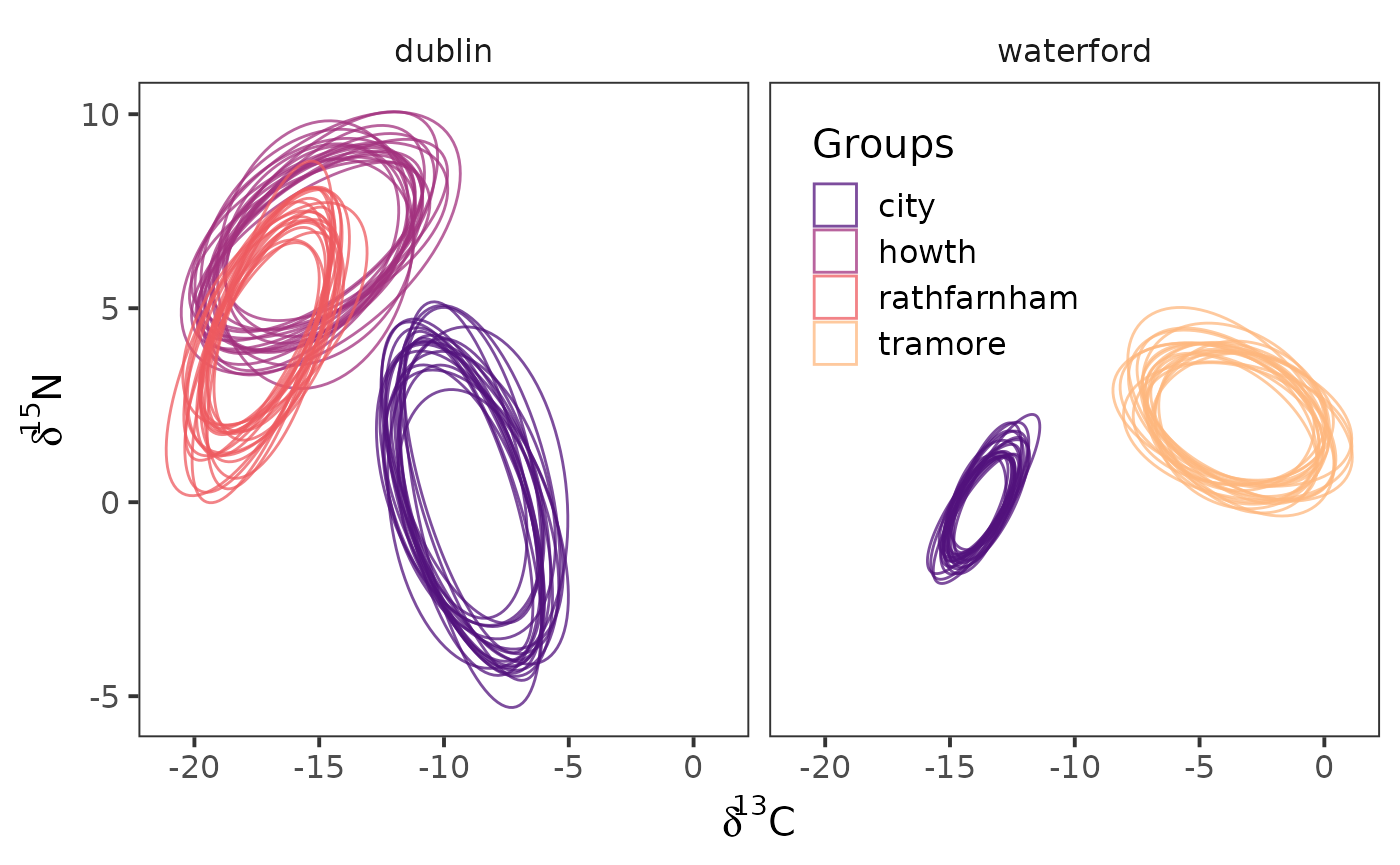
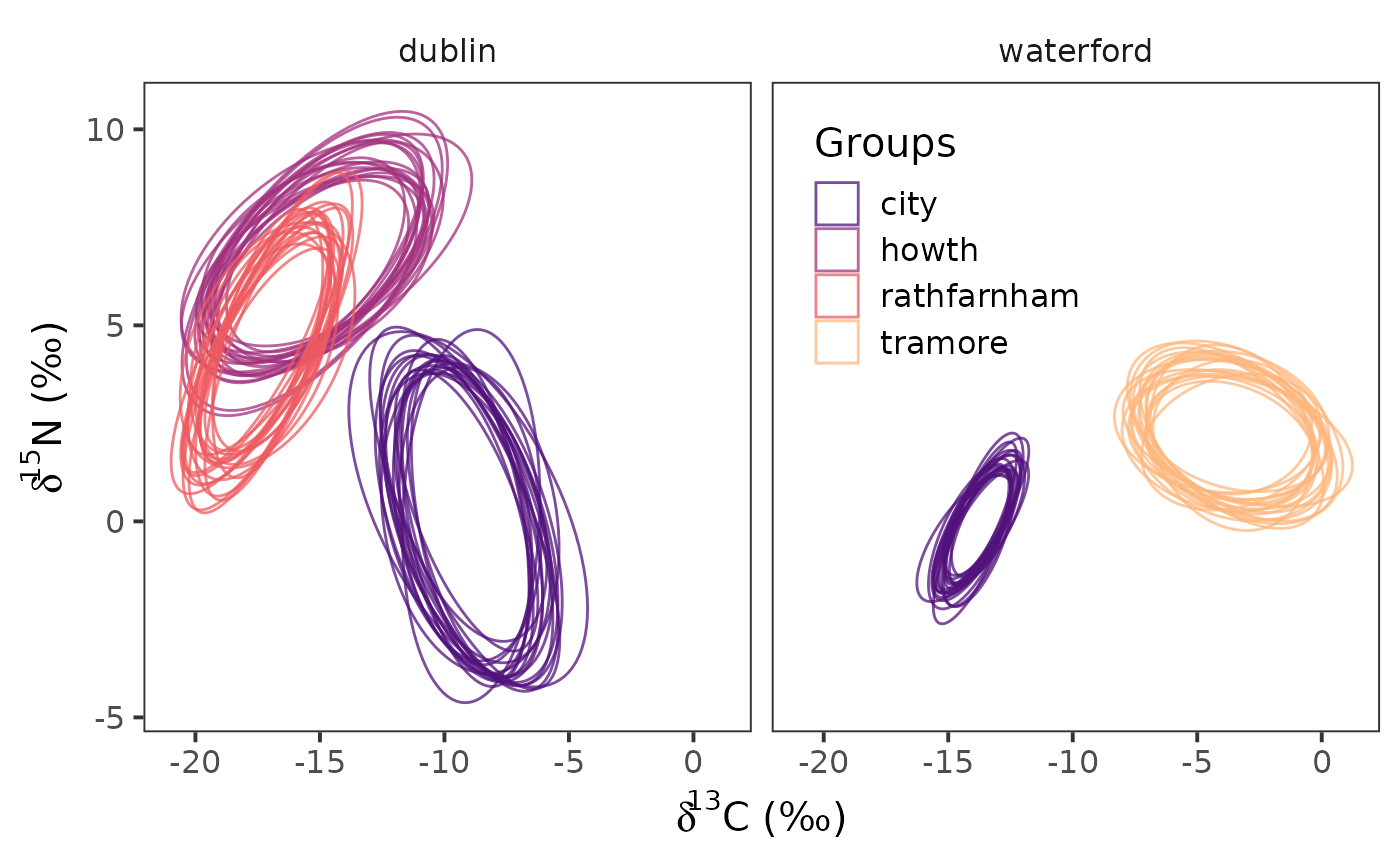
Deploying to gh-pages from @ benjaminhlina/nichetools@18b3eb12de81e16dfd377588b213919d96c1ca98 🚀

diff --git a/articles/using-nichetools-with-the-package-SIBER.html b/articles/using-nichetools-with-the-package-SIBER.html
@@ -391,8 +391,8 @@ level of the ellipse you can do so using the argument
 <span>    legend.position.inside <span class="op">=</span> <span class="fu"><a href="https://rdrr.io/r/base/c.html" class="external-link">c</a></span><span class="op">(</span><span class="fl">0.65</span>, <span class="fl">0.75</span><span class="op">)</span></span>
 <span>  <span class="op">)</span> <span class="op">+</span> </span>
 <span>  <span class="fu"><a href="https://ggplot2.tidyverse.org/reference/labs.html" class="external-link">labs</a></span><span class="op">(</span></span>
-<span>    x <span class="op">=</span> <span class="fu"><a href="https://rdrr.io/r/base/expression.html" class="external-link">expression</a></span><span class="op">(</span><span class="fu"><a href="https://rdrr.io/r/base/paste.html" class="external-link">paste</a></span><span class="op">(</span><span class="va">delta</span><span class="op">^</span><span class="fl">13</span>,<span class="st">"C"</span><span class="op">)</span><span class="op">)</span>, </span>
-<span>    y <span class="op">=</span> <span class="fu"><a href="https://rdrr.io/r/base/expression.html" class="external-link">expression</a></span><span class="op">(</span><span class="fu"><a href="https://rdrr.io/r/base/paste.html" class="external-link">paste</a></span><span class="op">(</span><span class="va">delta</span><span class="op">^</span><span class="fl">15</span>,<span class="st">"N"</span><span class="op">)</span><span class="op">)</span> </span>
+<span>    x <span class="op">=</span> <span class="fu"><a href="https://rdrr.io/r/base/expression.html" class="external-link">expression</a></span><span class="op">(</span><span class="fu"><a href="https://rdrr.io/r/base/paste.html" class="external-link">paste</a></span><span class="op">(</span><span class="va">delta</span><span class="op">^</span><span class="fl">13</span>,<span class="st">"C (‰)"</span><span class="op">)</span><span class="op">)</span>, </span>
+<span>    y <span class="op">=</span> <span class="fu"><a href="https://rdrr.io/r/base/expression.html" class="external-link">expression</a></span><span class="op">(</span><span class="fu"><a href="https://rdrr.io/r/base/paste.html" class="external-link">paste</a></span><span class="op">(</span><span class="va">delta</span><span class="op">^</span><span class="fl">15</span>,<span class="st">"N (‰)"</span><span class="op">)</span><span class="op">)</span> </span>
 <span>  <span class="op">)</span></span></code></pre></div>
 <p><img src="using-nichetools-with-the-package-SIBER_files/figure-html/unnamed-chunk-17-1.png" width="700">
 ### Niche Similarties</p>
